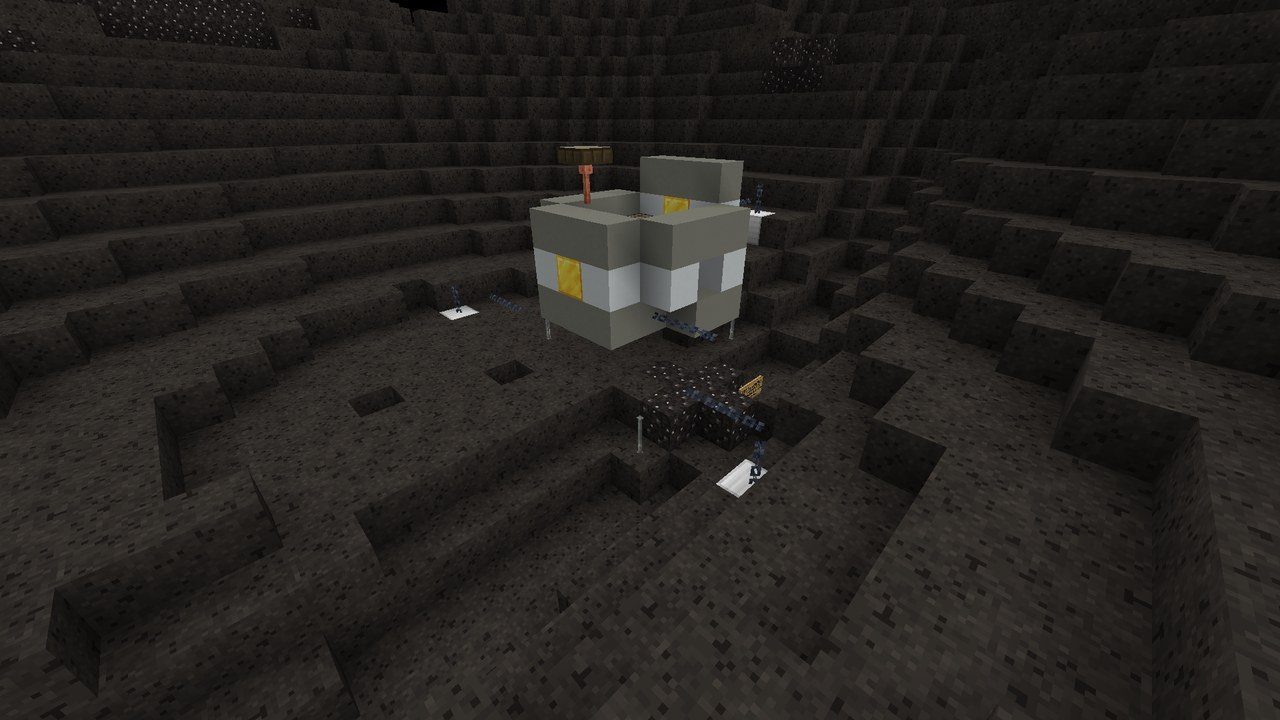
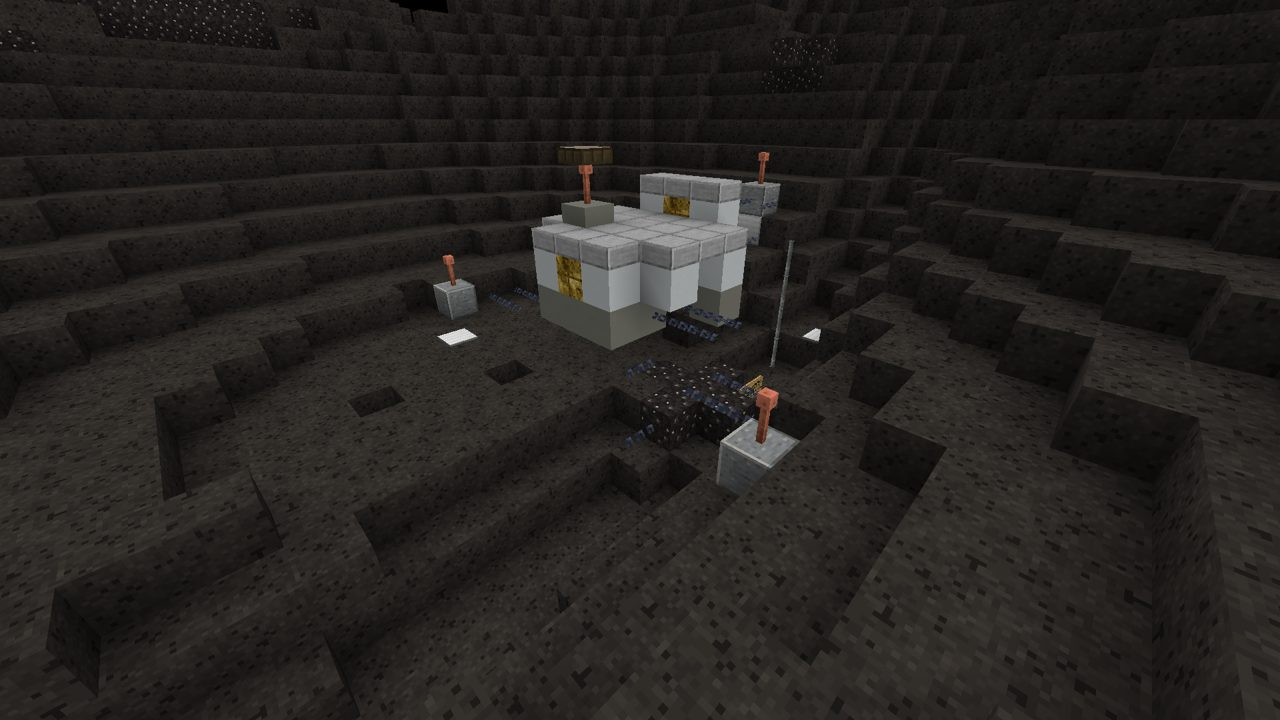
Phobos Stickney lander: the new lander language, smaller
A small octagonal bus with gold foil cladding on its flat faces under a slab deck, splayed legs with footpads (one folded), a small solar wing; the three harpoon tethers are braided pairs with winch housings on the harpoon heads. The survey recorder is a supply locker. Same loot, sign and test.

diff --git a/src/main/java/com/pizzaparker07/spacebreaker/content/mars/dungeon/StickneyLanderPiece.java b/src/main/java/com/pizzaparker07/spacebreaker/content/mars/dungeon/StickneyLanderPiece.java
@@ -73,48 +73,60 @@ public class StickneyLanderPiece extends StructurePiece {
         int y = gy + 1; // the body hangs a block above the dust on its legs
         BlockState hull = s(Blocks.WHITE_CONCRETE);
         BlockState trim = s(Blocks.LIGHT_GRAY_CONCRETE);
-        BlockState foil = s(Blocks.GOLD_BLOCK);
-        // the body: a 5x5 box, three layers, with gold foil on the middle band and a solar deck on top
+        BlockState foil = s(com.pizzaparker07.spacebreaker.content.belt.LanderBlocks.GOLD_FOIL_CLADDING.get());
+        // the body: a small octagonal bus (foil on the flat faces, white on the corners) under a slab deck; the east
+        // side rides a block high on its stretched tether
         for (int layer = 0; layer < 3; layer++) {
             for (int dx = -2; dx <= 2; dx++) {
                 for (int dz = -2; dz <= 2; dz++) {
-                    boolean corner = Math.abs(dx) == 2 && Math.abs(dz) == 2;
-                    if (corner) {
+                    if (Math.abs(dx) == 2 && Math.abs(dz) == 2) {
                         continue;
                     }
                     boolean edge = Math.abs(dx) == 2 || Math.abs(dz) == 2;
-                    int tilt = dx == 2 ? 1 : 0; // the east side rides a block high on its stretched tether
+                    boolean diagonal = Math.abs(dx) + Math.abs(dz) == 3;
+                    int tilt = dx == 2 ? 1 : 0;
                     BlockState st;
                     if (layer == 0) {
                         st = trim;
                     } else if (layer == 2) {
-                        st = edge ? trim : s(Blocks.DAYLIGHT_DETECTOR);
+                        st = s(Blocks.SMOOTH_STONE_SLAB);
                     } else {
-                        st = edge ? ((dx + dz) % 2 == 0 ? foil : hull) : s(Blocks.AIR);
+                        st = edge ? (diagonal ? hull : foil) : s(Blocks.AIR);
                     }
                     set(level, box, cx + dx, y + layer + tilt, cz + dz, st);
                 }
             }
         }
         // the survey recorder inside, reached through the open hatch on the south side
-        BlockPos chest = new BlockPos(cx, y + 1, cz);
-        if (box.isInside(chest)) {
-            level.setBlock(chest, s(Blocks.CHEST), Block.UPDATE_CLIENTS);
-            if (level.getBlockEntity(chest) instanceof net.minecraft.world.level.block.entity.ChestBlockEntity be) {
+        BlockPos rec = new BlockPos(cx, y + 1, cz);
+        if (box.isInside(rec)) {
+            level.setBlock(rec, com.pizzaparker07.spacebreaker.content.dungeons.locker.SupplyLocker.BLOCK.get().defaultBlockState()
+                    .setValue(com.pizzaparker07.spacebreaker.content.dungeons.locker.SupplyLockerBlock.FACING, Direction.SOUTH), Block.UPDATE_CLIENTS);
+            if (level.getBlockEntity(rec) instanceof com.pizzaparker07.spacebreaker.content.dungeons.locker.SupplyLockerBlockEntity be) {
                 be.setLootTable(MarsLoot.STICKNEY_LANDER, seed);
             }
         }
         set(level, box, cx, y + 1, cz + 2, s(Blocks.AIR));
-        // four legs; the south-west one folded under the body
-        for (int[] leg : new int[][]{{-2, -2}, {2, -2}, {2, 2}}) {
-            int lx = cx + leg[0];
-            int lz = cz + leg[1];
-            for (int dy = ground(level, lx, lz); dy < y + (leg[0] == 2 ? 1 : 0); dy++) {
-                set(level, box, lx, dy, lz, s(Blocks.IRON_BARS));
+        // four splayed legs with footpads; the south-west one folded flat under the body
+        for (int[] leg : new int[][]{{-1, -1}, {1, -1}, {1, 1}}) {
+            int sx = cx + leg[0] * 3;
+            int sz = cz + leg[1] * 3;
+            for (int dy = ground(level, sx, sz); dy <= y + (leg[0] == 1 ? 1 : 0); dy++) {
+                set(level, box, sx, dy, sz, s(Blocks.IRON_BARS));
             }
+            int fx = cx + leg[0] * 4;
+            int fz = cz + leg[1] * 4;
+            set(level, box, fx, ground(level, fx, fz), fz, s(Blocks.HEAVY_WEIGHTED_PRESSURE_PLATE));
         }
-        set(level, box, cx - 3, ground(level, cx - 3, cz + 3), cz + 3, s(Blocks.IRON_BARS));
+        for (int i = 2; i <= 3; i++) {
+            set(level, box, cx - i, ground(level, cx - i, cz + i), cz + i, s(Blocks.CHAIN).setValue(ChainBlock.AXIS, Direction.Axis.X));
+        }
+        // one small solar wing folded out to the north
+        set(level, box, cx, y + 1, cz - 3, s(Blocks.CHAIN).setValue(ChainBlock.AXIS, Direction.Axis.Z));
+        set(level, box, cx, y + 1, cz - 4, s(com.pizzaparker07.spacebreaker.content.machines.MachinesModule.SOLAR_PANEL.get()));
+        set(level, box, cx, y + 1, cz - 5, s(com.pizzaparker07.spacebreaker.content.machines.MachinesModule.SOLAR_PANEL.get()));
         // high-gain antenna
+        set(level, box, cx - 1, y + 2, cz - 1, s(Blocks.LIGHT_GRAY_CONCRETE));
         set(level, box, cx - 1, y + 3, cz - 1, s(Blocks.LIGHTNING_ROD));
         set(level, box, cx - 1, y + 4, cz - 1, s(Blocks.DAYLIGHT_DETECTOR));
         // three harpoon tethers: chains slanting out from the base to anchors driven into the regolith
@@ -129,12 +141,18 @@ public class StickneyLanderPiece extends StructurePiece {
                 int pz = cz + Math.round(a[1] * (float) i / steps);
                 int py = Math.round(y + (ay + 1 - y) * (float) i / steps);
                 Direction.Axis axis = Math.abs(a[0]) >= Math.abs(a[1]) ? Direction.Axis.X : Direction.Axis.Z;
-                set(level, box, px, Math.max(py, ground(level, px, pz)), pz, s(Blocks.CHAIN).setValue(ChainBlock.AXIS, axis));
+                int ty = Math.max(py, ground(level, px, pz));
+                set(level, box, px, ty, pz, s(Blocks.CHAIN).setValue(ChainBlock.AXIS, axis));
+                // the tether is a braided pair: a second strand beside the first
+                int ox = axis == Direction.Axis.X ? 0 : 1;
+                int oz = axis == Direction.Axis.X ? 1 : 0;
+                set(level, box, px + ox, Math.max(ty, ground(level, px + ox, pz + oz)), pz + oz, s(Blocks.CHAIN).setValue(ChainBlock.AXIS, axis));
             }
             // the harpoon: a barbed spike buried in the dust, its winch ring showing
             set(level, box, ax, ay, az, s(Blocks.IRON_BLOCK));
             set(level, box, ax, ay - 1, az, s(Blocks.POINTED_DRIPSTONE));
-            set(level, box, ax, ay + 1, az, s(Blocks.CHAIN));
+            set(level, box, ax, ay + 1, az, s(Blocks.POLISHED_ANDESITE)); // the winch housing on the harpoon head
+            set(level, box, ax, ay + 2, az, s(Blocks.LIGHTNING_ROD));
         }
         // the plate that explains it, facing the hatch
         BlockPos sign = new BlockPos(cx, ground(level, cx, cz + 4), cz + 4);

diff --git a/src/testmod/java/com/pizzaparker07/spacebreaker/testmod/mars/MarsLifeGameTests.java b/src/testmod/java/com/pizzaparker07/spacebreaker/testmod/mars/MarsLifeGameTests.java
@@ -278,7 +278,13 @@ public final class MarsLifeGameTests {
             chains += st.is(Blocks.CHAIN) ? 1 : 0;
             signs += st.is(Blocks.OAK_SIGN) ? 1 : 0;
         }
-        helper.assertTrue(lootChests(level, bb) == 1, "one survey recorder, found " + lootChests(level, bb));
+        int recorders = 0;
+        for (BlockPos p : BlockPos.betweenClosed(bb.minX(), bb.minY(), bb.minZ(), bb.maxX(), bb.maxY(), bb.maxZ())) {
+            if (level.getBlockEntity(p) instanceof com.pizzaparker07.spacebreaker.content.dungeons.locker.SupplyLockerBlockEntity l && l.getLootTable() != null) {
+                recorders++;
+            }
+        }
+        helper.assertTrue(recorders == 1, "one survey recorder, found " + recorders);
         helper.assertTrue(chains >= 12, "three harpoon tethers, found " + chains + " chain blocks");
         helper.assertTrue(signs == 1, "the plate that explains the anchoring");
         helper.succeed();

diff --git a/docs/CONTENT.md b/docs/CONTENT.md
@@ -178,7 +178,7 @@ Her içerik paketi gerçek istemcide vitrin dünyasında fotoğraflanır; onayda
 | 🎨 | Stickney krateri | Phobos'un dev krateri sabit yerde (doğuş noktasının ~320 blok doğusu, 230 blok yarıçap, 58 blok derin kase); arazi motoruna `named_craters` (ad, x, enlem, yarıçap, derinlik, tepe) eklendi |
 | 🎨 | Bloklar | Phobos Regoliti, Deimos Regoliti (kalıcı ayak izi), Karbonlu Kondrit |
 | 🎨 | Yaratık: Çapa Örücüsü (Tether Spinner) | Phobos ve Deimos'ta; altı bacaklı, uzun sekmelerle gider; her sekmeden önce zemine ipek ip yapıştırır, ip gerilince geri çekilir (küçük ayda kaçış hızı dersi); havada ip parıltıyla görünür, bacaklar toplanır; ip (string) bırakır; karbonlu kondritle çekilir/üretilir |
-| 🎨 | Zindanlar | Düşmüş Numune Dönüş Sondası (Phobos), Deimos Buz Deposu, Stickney'nin Çapalı İniş Aracı (dünyada tek: Stickney tabanında, 3 harpun zinciriyle zemine bağlı, "1/2000 g: geri sekti" levhası; güvenlik ipi, mikro-yerçekimi madenciliği / uzay sondası diskleri), Deimos Röle Kulesi (spiral 12 kaya yığını, her biri 2 blok yüksek ve 4+ blok uzak: Dünya'da aşılamaz, Deimos'ta her gerçekçilik ayarında aşılır — test MC zıplama fiziğiyle doğrular; tepede röle ve veri kasası, "1/4000 g" levhası) |
+| 🎨 | Zindanlar | Düşmüş Numune Dönüş Sondası (Phobos), Deimos Buz Deposu, Stickney'nin Çapalı İniş Aracı (dünyada tek: Stickney tabanında; küçük sekizgen gövde, altın folyo kaplama, açık bacaklar ve ayak tablaları, biri katlanmış, kuzeyde küçük güneş kanadı; vinç gövdeli 3 harpun, çift halatlı zincirlerle zemine bağlı; veri kaydedici Malzeme Dolabında, "1/2000 g: geri sekti" levhası; güvenlik ipi, mikro-yerçekimi madenciliği / uzay sondası diskleri), Deimos Röle Kulesi (spiral 12 kaya yığını, her biri 2 blok yüksek ve 4+ blok uzak: Dünya'da aşılamaz, Deimos'ta her gerçekçilik ayarında aşılır — test MC zıplama fiziğiyle doğrular; tepede röle ve veri kasası, "1/4000 g" levhası) |
 
 ### Venüs `spacebreaker:venus`
 | Durum | İçerik | Not |
